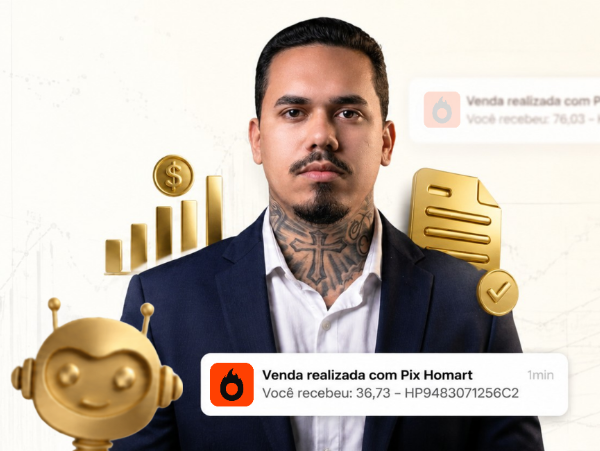
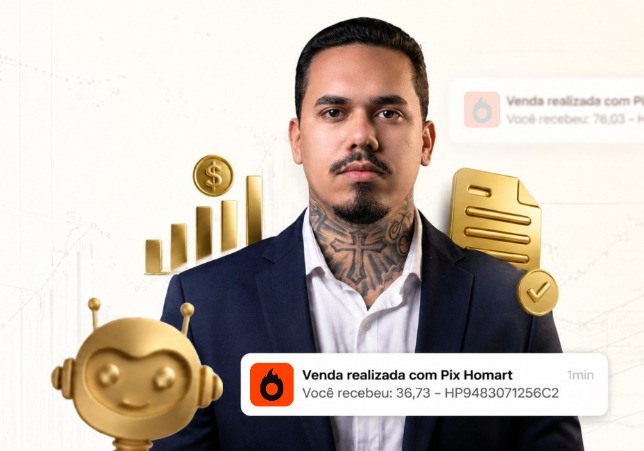
Exibe imagem hero completa e sem cortes no mobile com texto posicionado abaixo

Changed region(s): [[0.0, 0.031, 0.87, 1.0], [0.69, 0.6208, 0.75, 0.7761], [0.96, 0.2173, 1.0, 0.2794]]

diff --git a/index.html b/index.html
@@ -450,9 +450,46 @@ box-shadow: 0 0 0 0 transparent;
 /* End Custom Fonts CSS */
 /*# sourceURL=elementor-frontend-inline-css */</style> <script id="jquery-core-js-extra" type="litespeed/javascript">var pysFacebookRest={"restApiUrl":"https://jessicachamorrosantos.com/wp-json/pys-facebook/v1/event","debug":""}</script> <script id="jquery-core-js" type="litespeed/javascript" data-src="https://jessicachamorrosantos.com/wp-includes/js/jquery/jquery.min.js"></script> <link rel="https://api.w.org/" href="https://jessicachamorrosantos.com/wp-json/"><link rel="alternate" title="JSON" type="application/json" href="https://jessicachamorrosantos.com/wp-json/wp/v2/pages/11066"><link rel="EditURI" type="application/rsd+xml" title="RSD" href="https://jessicachamorrosantos.com/xmlrpc.php?rsd"><meta name="generator" content="WordPress 7.1.3"><link rel="canonical" href="https://jessicachamorrosantos.com/curso-online-v1/"><link rel="shortlink" href="https://jessicachamorrosantos.com/?p=11066"><meta name="generator" content="Elementor 4.1.4; features: e_font_icon_svg, additional_custom_breakpoints; settings: css_print_method-internal, google_font-disabled, font_display-auto"> <script src="js/latest.js" data-utmify-prevent-xcod-sck="" data-utmify-prevent-subids="" async="" defer=""></script>  <script type="litespeed/javascript">(function(w,d,s,l,i){w[l]=w[l]||[];w[l].push({'gtm.start':new Date().getTime(),event:'gtm.js'});var f=d.getElementsByTagName(s)[0],j=d.createElement(s),dl=l!='dataLayer'?'&l='+l:'';j.async=!0;j.src='https://www.googletagmanager.com/gtm.js?id='+i+dl;f.parentNode.insertBefore(j,f)})(window,document,'script','dataLayer','GTM-5RSBKRTF')</script> <link rel="icon" href="images/jicon-150x150.png" sizes="32x32"><link rel="icon" href="images/jicon.png" sizes="192x192"><link rel="apple-touch-icon" href="images/jicon.png"><meta name="msapplication-TileImage" content="https://jessicachamorrosantos.com/wp-content/uploads/2022/04/jicon.png"><meta name="viewport" content="width=device-width, initial-scale=1.0, viewport-fit=cover">
 
+
+<style id="mobile-hero-clean-css">
+@media (min-width: 768px) {
+  .hero-mobile-img {
+    display: none !important;
+  }
+}
+
+@media (max-width: 767px) {
+  .hero-mobile-img {
+    display: block !important;
+    width: 100% !important;
+    max-width: 500px !important;
+    height: auto !important;
+    margin: 0 auto 16px auto !important;
+  }
+  .elementor-11066 .elementor-element.elementor-element-fc25079:not(.elementor-motion-effects-element-type-background),
+  .elementor-11066 .elementor-element.elementor-element-fc25079 > .elementor-motion-effects-container > .elementor-motion-effects-layer {
+    background-image: none !important;
+  }
+  .elementor-11066 .elementor-element.elementor-element-fc25079 {
+    --padding-top: 16px !important;
+    padding-top: 16px !important;
+    display: flex !important;
+    flex-direction: column !important;
+    align-items: center !important;
+  }
+  .elementor-11066 .elementor-element.elementor-element-f4d9f1b {
+    background: transparent !important;
+    backdrop-filter: none !important;
+    -webkit-backdrop-filter: none !important;
+    box-shadow: none !important;
+    width: 100% !important;
+    padding: 0 10px !important;
+  }
+}
+</style>
 </head><body data-rsssl="1" class="wp-singular page-template-default page page-id-11066 wp-embed-responsive wp-theme-hello-elementor hello-elementor-default wpf-default wpft- wpf-guest wpfu-group-4 wpf-theme-2026 wpf-is_standalone-0 wpf-boardid-0 is_wpforo_page-0 is_wpforo_url-0 is_wpforo_shortcode_page-0 elementor-default elementor-template-canvas elementor-kit-5 elementor-page elementor-page-11066">
 <noscript><iframe data-lazyloaded="1" src="about:blank" data-litespeed-src="https://www.googletagmanager.com/ns.html?id=GTM-5RSBKRTF"
-height="0" width="0" style="display:none;visibility:hidden"></iframe></noscript><div data-elementor-type="wp-page" data-elementor-id="11066" class="elementor elementor-11066" data-elementor-post-type="page"><div class="elementor-element elementor-element-9aea4a9 e-flex e-con-boxed e-con e-parent" data-id="9aea4a9" data-element_type="container" data-e-type="container" data-settings="{" background_background":"classic","position":"fixed"}"=""><div class="e-con-inner"><div class="elementor-element elementor-element-920321c elementor-widget elementor-widget-heading" data-id="920321c" data-element_type="widget" data-e-type="widget" data-widget_type="heading.default"><h2 class="elementor-heading-title elementor-size-default">Atenção: <span class="g2">O Desconto de 90%</span> é válido garantindo sua vaga apenas hoje <span class="g2"><span class="datetoday"></span></span></h2></div></div></div><div class="elementor-element elementor-element-8018b55 e-flex e-con-boxed e-con e-parent" data-id="8018b55" data-element_type="container" data-e-type="container" data-settings="{" background_background":"classic"}"=""><div class="e-con-inner"><div class="elementor-element elementor-element-fc25079 e-con-full e-flex e-con e-child" data-id="fc25079" data-element_type="container" data-e-type="container" data-settings="{" background_background":"classic"}"=""><div class="elementor-element elementor-element-f4d9f1b e-con-full e-flex e-con e-child" data-id="f4d9f1b" data-element_type="container" data-e-type="container"><div class="elementor-element elementor-element-162a58e elementor-widget__width-initial elementor-widget elementor-widget-image-box" data-id="162a58e" data-element_type="widget" data-e-type="widget" data-widget_type="image-box.default"><div class="elementor-image-box-wrapper"><div class="elementor-image-box-content"><h3 class="elementor-image-box-title">Transforme o seu conhecimento ou habilidade em um <span class="g1">curso online em até 07 dias</span> com ajuda da IA!</h3><p class="elementor-image-box-description">Chegou a hora de você aprender a organizar suas ideias, gravar, editar e hospedar o seu curso online de forma simples e prática em até 07 dias <b>com auxílio da IA</b>.
+height="0" width="0" style="display:none;visibility:hidden"></iframe></noscript><div data-elementor-type="wp-page" data-elementor-id="11066" class="elementor elementor-11066" data-elementor-post-type="page"><div class="elementor-element elementor-element-9aea4a9 e-flex e-con-boxed e-con e-parent" data-id="9aea4a9" data-element_type="container" data-e-type="container" data-settings="{" background_background":"classic","position":"fixed"}"=""><div class="e-con-inner"><div class="elementor-element elementor-element-920321c elementor-widget elementor-widget-heading" data-id="920321c" data-element_type="widget" data-e-type="widget" data-widget_type="heading.default"><h2 class="elementor-heading-title elementor-size-default">Atenção: <span class="g2">O Desconto de 90%</span> é válido garantindo sua vaga apenas hoje <span class="g2"><span class="datetoday"></span></span></h2></div></div></div><div class="elementor-element elementor-element-8018b55 e-flex e-con-boxed e-con e-parent" data-id="8018b55" data-element_type="container" data-e-type="container" data-settings="{" background_background":"classic"}"=""><div class="e-con-inner"><div class="elementor-element elementor-element-fc25079 e-con-full e-flex e-con e-child" data-id="fc25079" data-element_type="container" data-e-type="container" data-settings="{" background_background":"classic"}"=""><img class="hero-mobile-img" src="images/hero-mobile.png" alt="Hero" loading="eager" decoding="async"><div class="elementor-element elementor-element-f4d9f1b e-con-full e-flex e-con e-child" data-id="f4d9f1b" data-element_type="container" data-e-type="container"><div class="elementor-element elementor-element-162a58e elementor-widget__width-initial elementor-widget elementor-widget-image-box" data-id="162a58e" data-element_type="widget" data-e-type="widget" data-widget_type="image-box.default"><div class="elementor-image-box-wrapper"><div class="elementor-image-box-content"><h3 class="elementor-image-box-title">Transforme o seu conhecimento ou habilidade em um <span class="g1">curso online em até 07 dias</span> com ajuda da IA!</h3><p class="elementor-image-box-description">Chegou a hora de você aprender a organizar suas ideias, gravar, editar e hospedar o seu curso online de forma simples e prática em até 07 dias <b>com auxílio da IA</b>.
 <br><br>
 E mais, sem gastar nenhum REAL com isso!
 <br><br>
